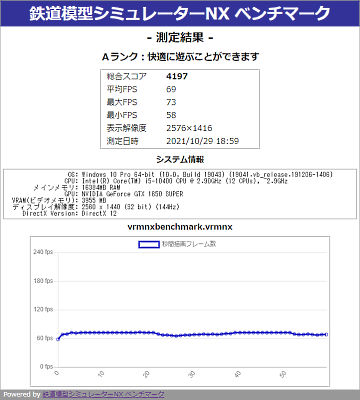
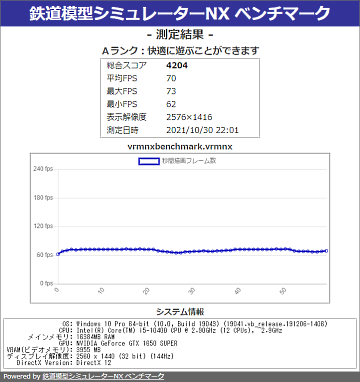
- DirectX診断ツールをバッチ化して出力されない問題を回避 - タイマーイベント初期化処理の不具合を修正 - 文字置換処理を最適化 - テンプレートの順番変更とCSSを更新

diff --git a/vrmnxbenchmark_template.html b/vrmnxbenchmark_template.html
@@ -4,16 +4,15 @@
 <meta charset="utf-8">
 <title>鉄道模型シミュレーターNX ベンチマーク</title>
 <style>
-  div    {margin:auto; width: 720px; border: 1px solid #999999;}
-  h1, h2, h3, h4{margin:0px 0px 6px; text-align: center;}
-  h1     {padding:4px 0px 0px; background-color: #333399; color: #ffffff;}
-  table#score  {margin:10px auto; width: 320px; border: 1px solid #999999;}
-  pre#dxdiag {margin:4px auto; padding:4px; width: 700px; border: 1px solid #999999;}
-  td     {padding:0px 10px}
-  footer {padding:0px 6px; background-color: #999999; color: #ffffff; font-size: small;}
-  ul     {margin:0px}
-  section{font-size: x-small; color: #666666;}
-  div#graph {width: 600px; margin:0px auto 6px}
+  div        {width:720px; margin:auto; border:1px solid #666666;}
+  h1, h2, h3, h4{margin:0px; text-align:center; color:#333333;}
+  h1         {padding:4px 0px 0px; background-color:#333399; color:#ffffff;}
+  table#score{width:320px; margin:0px auto 6px; border:1px solid #999999;}
+  td         {padding:0px 10px}
+  div#graph  {width:600px; margin:0px auto 6px}
+  pre#dxdiag {margin:0px 6px 6px; padding:4px 6px; border:1px solid #999999;}
+  footer     {padding:0px 6px; background-color:#666666; color:#ffffff; font-size:small;}
+  a          {color:#ffffff;}
 </style>
 </head>
 <body>
@@ -29,20 +28,20 @@
     <tr><td>表示解像度</td><td>DX×DY</td></tr>
     <tr><td>測定日時</td><td>yyyy/MM/dd hh:mm</td></tr>
   </table>
+<h4>LAYOUT</h4>
+<div id="graph"><canvas id="vrmnxbenchmark"></canvas></div>
 <h4>システム情報</h4>
 <code>
 <pre id="dxdiag">
-                  OS: N/A
-                 CPU: N/A
-        メインメモリ: N/A
-                 GPU: N/A
-  VRAM(ビデオメモリ): N/A
-  ディスプレイ解像度: N/A
-     DirectX Version: N/A
+                OS: N/A
+               CPU: N/A
+      メインメモリ: N/A
+               GPU: N/A
+VRAM(ビデオメモリ): N/A
+ディスプレイ解像度: N/A
+   DirectX Version: N/A
 </pre>
 </code>
-<h4>LAYOUT</h4>
-<div id="graph"><canvas id="vrmnxbenchmark"></canvas></div>
 
 <script src="https://cdnjs.cloudflare.com/ajax/libs/Chart.js/2.7.2/Chart.bundle.js"></script>
 <script>

diff --git a/vrmnxbenchmark.py b/vrmnxbenchmark.py
@@ -1,6 +1,6 @@
 __title__ = "VRMNXベンチマーク Ver.1.0"
 __author__ = "Caldia"
-__update__  = "2021/10/29"
+__update__  = "2021/10/30"
 
 import vrmapi
 import shutil
@@ -15,11 +15,11 @@ vrmapi.LOG("import " + __title__)
 # main
 def vrmevent(obj,ev,param):
     if ev == 'init':
+        d = obj.GetDict()
         # フレームカウント
         obj.SetEventFrame()
         # 毎秒カウント
-        obj.SetEventTimer(1.0, 101)
-        d = obj.GetDict()
+        d['t_evid'] = obj.SetEventTimer(1.0)
         # 秒間スコア
         d['score'] = 0
         # 現在スコア
@@ -39,10 +39,17 @@ def vrmevent(obj,ev,param):
         d['count'] = 60
         # ベンチマーク期間カウンター
         d['count_now'] = d['count']
-        # ファイル出力フラグ
-        d['file_output'] = False
-        # dxdiagファイル事前出力
-        subprocess.Popen("dxdiag /t", shell=True)
+
+        # dxdiagファイルが無ければ出力
+        dir = vrmapi.SYSTEM().GetLayoutDir()
+        if(os.path.exists(dir + "dxdiag.txt") == False):
+            # 非同期実行
+            subprocess.Popen(dir + "vrmnxbenchmark.bat")
+            # 同期実行(画面が止まるため不採用)
+            #subprocess.run(dir + "vrmnxbenchmark.bat")
+            # 本来は直接動作させたいが出力されないケースがあるためbat経由
+            #subprocess.Popen("dxdiag /t", shell=True)
+
     elif ev == 'timer':
         d = obj.GetDict()
         # カウンター期間未満
@@ -63,13 +70,10 @@ def vrmevent(obj,ev,param):
             # ベンチマーク期間カウンターを進める
             d['count_now'] = d['count_now'] - 1
         else:
-            # timerイベントをリセット
-            obj.ResetEvent(101)
+            # イベントリセット
+            obj.ResetEvent(d['t_evid'])
             # ファイル出力
-            if d['file_output'] == False:
-                # ResetEventエラー対策
-                d['file_output'] = True
-                writeScore(vrmapi.SYSTEM().GetLayoutDir(), d)
+            writeScore(vrmapi.SYSTEM().GetLayoutDir(), d)
     elif ev == 'frame':
         d = obj.GetDict()
         g = vrmapi.ImGui()
@@ -133,27 +137,19 @@ def writeScore(path, d):
             flist = f.readlines()
             for t in flist:
                 if 'Operating System:' in t:
-                    s = s.replace('                  OS: N/A', t[5:-1])
-                    s = s.replace('Operating System:', '              OS:')
+                    s = s.replace('                OS: N/A', t[7:-1].replace('Operating System:', '              OS:'))
                 elif '  Processor:' in t:
-                    s = s.replace('                 CPU: N/A', t[5:-1])
-                    s = s.replace('Processor:', '      CPU:')
+                    s = s.replace('               CPU: N/A', t[7:-1].replace('Processor:', '      CPU:'))
                 elif '  Memory:' in t:
-                    s = s.replace('        メインメモリ: N/A', t[5:-1])
-                    s = s.replace('      Memory:', 'メインメモリ:')
+                    s = s.replace('      メインメモリ: N/A', t[7:-1].replace('      Memory:', 'メインメモリ:'))
                 elif '  Card name:' in t:
-                    s = s.replace('                 GPU: N/A', t[:-1])
-                    s = s.replace('Card name:', '      GPU:')
+                    s = s.replace('               GPU: N/A', t[2:-1].replace('Card name:', '      GPU:'))
                 elif '  Dedicated Memory:' in t:
-                    s = s.replace('  VRAM(ビデオメモリ): N/A', t[:-1])
-                    s = s.replace('  Dedicated Memory:', 'VRAM(ビデオメモリ):')
+                    s = s.replace('VRAM(ビデオメモリ): N/A', t[2:-1].replace('  Dedicated Memory:', 'VRAM(ビデオメモリ):'))
                 elif '  Current Mode:' in t:
-                    s = s.replace('  ディスプレイ解像度: N/A', t[:-1])
-                    s = s.replace('      Current Mode:', 'ディスプレイ解像度:')
-                elif '  DirectX Version:' in t:
-                    s = s.replace('     DirectX Version: N/A', t[5:-1])
-    else:
-        s = s.replace('                  OS: N/A\n', 'DirectX診断ツールを確認できませんでした。\n                  OS: N/A\n')
+                    s = s.replace('ディスプレイ解像度: N/A', t[2:-1].replace('      Current Mode:', 'ディスプレイ解像度:'))
+                elif 'DirectX Version:' in t:
+                    s = s.replace('   DirectX Version: N/A', t[7:-1])
 
     # 結果出力
     timeText = datetime.now().strftime('%Y%m%d_%H%M%S')
